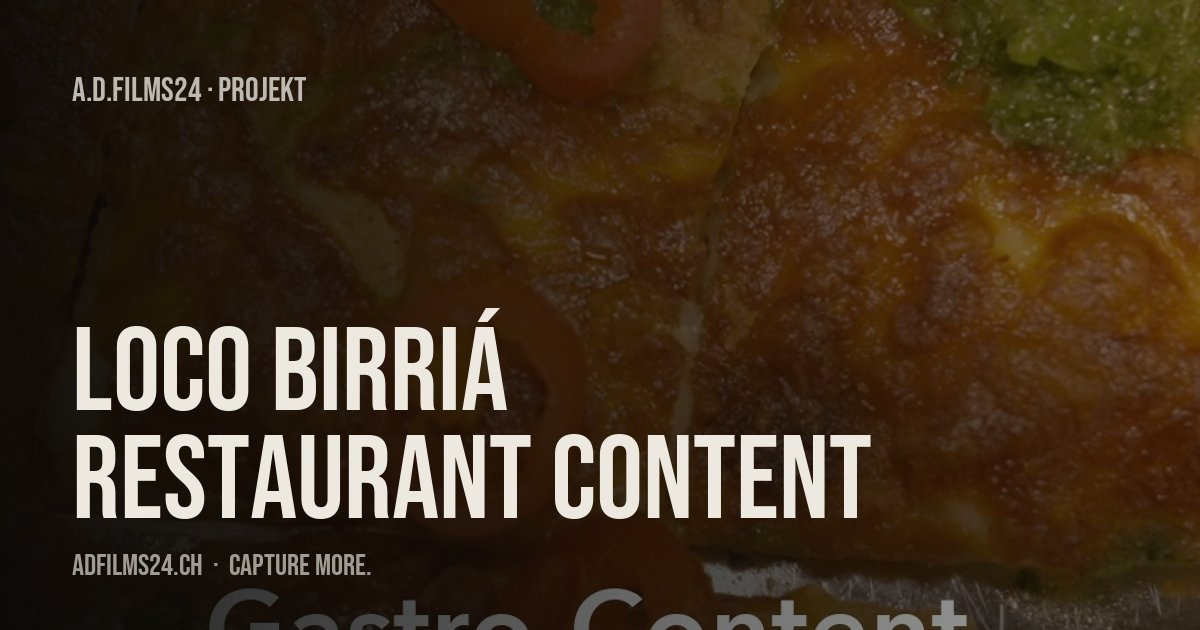
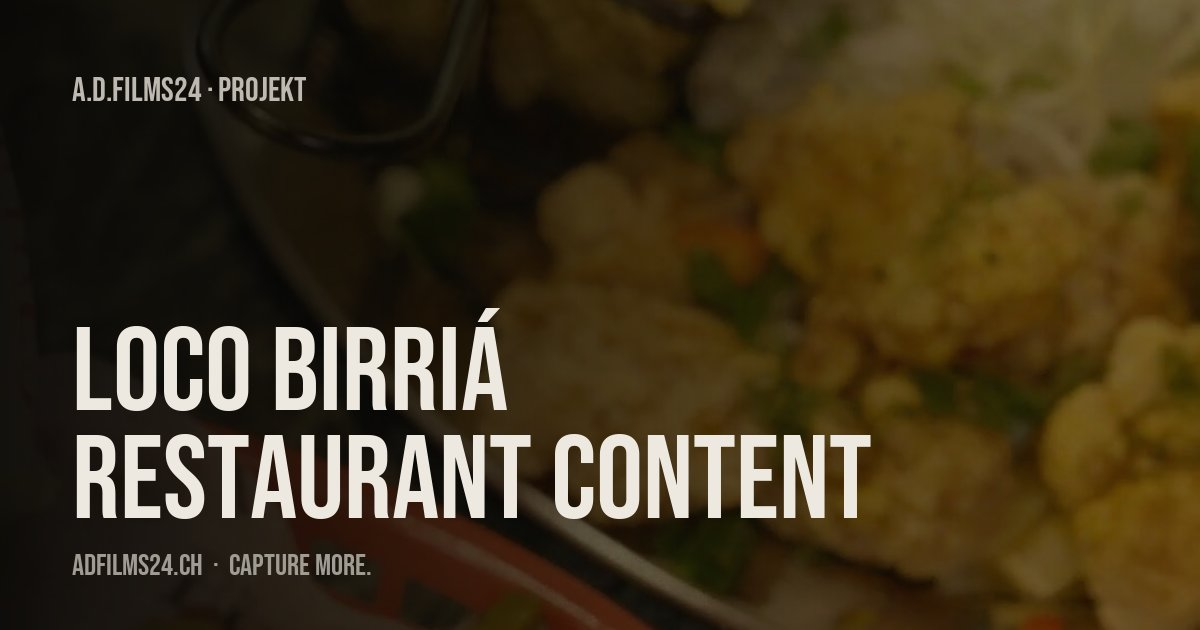
Use a clean food still as the LOCO BIRRIÁ poster

diff --git a/leistungen/restaurant-video-zuerich.html b/leistungen/restaurant-video-zuerich.html
@@ -47,7 +47,7 @@
       <div><h2 class="lp-h">Für wen</h2><ul class="lp-list"><li>Restaurants und Bars</li><li>Neueröffnungen</li><li>Caterer und Food-Brands</li></ul></div>
     </div>
     <p class="s-meta lp-label">Beispiel aus unserem Portfolio: <a href="/projekte/loco-birria.html">LOCO BIRRIÁ — RESTAURANT CONTENT</a></p>
-    <div class="pj-video"><video controls playsinline preload="metadata" poster="/assets/video/projects/loco-birria.webp?v=e307e70f"><source src="/assets/video/projects/loco-birria.mp4?v=e6290970" type="video/mp4"></video></div>
+    <div class="pj-video"><video controls playsinline preload="metadata" poster="/assets/video/projects/loco-birria.webp?v=ee245982"><source src="/assets/video/projects/loco-birria.mp4?v=e6290970" type="video/mp4"></video></div>
     <h2 class="lp-h">So läuft es ab</h2>
     <ol class="lp-steps"><li><span class="lp-step-n">01</span><strong>Gespräch</strong><span>Wir klären Ziel, Zielgruppe und wo das Video eingesetzt wird.</span></li><li><span class="lp-step-n">02</span><strong>Offerte & Konzept</strong><span>Klarer Preis und klarer Ablauf, bevor gedreht wird.</span></li><li><span class="lp-step-n">03</span><strong>Dreh</strong><span>Mit Cinema-Kamera, Licht und Ton — vor Ort bei euch.</span></li><li><span class="lp-step-n">04</span><strong>Schnitt & Abgabe</strong><span>Fertig in den Formaten, die ihr braucht.</span></li></ol>
     <p class="lp-promise">Bisher gab es keine einzige Revisionsanfrage. Weil wir vor dem Dreh klären, was das Video leisten soll.</p>

diff --git a/en/services/restaurant-video-zurich.html b/en/services/restaurant-video-zurich.html
@@ -47,7 +47,7 @@
       <div><h2 class="lp-h">Who it's for</h2><ul class="lp-list"><li>Restaurants and bars</li><li>New openings</li><li>Caterers and food brands</li></ul></div>
     </div>
     <p class="s-meta lp-label">Example from our portfolio: <a href="/en/projects/loco-birria.html">LOCO BIRRIÁ — RESTAURANT CONTENT</a></p>
-    <div class="pj-video"><video controls playsinline preload="metadata" poster="/assets/video/projects/loco-birria.webp?v=e307e70f"><source src="/assets/video/projects/loco-birria.mp4?v=e6290970" type="video/mp4"></video></div>
+    <div class="pj-video"><video controls playsinline preload="metadata" poster="/assets/video/projects/loco-birria.webp?v=ee245982"><source src="/assets/video/projects/loco-birria.mp4?v=e6290970" type="video/mp4"></video></div>
     <h2 class="lp-h">How it works</h2>
     <ol class="lp-steps"><li><span class="lp-step-n">01</span><strong>Call</strong><span>We clarify the goal, the audience and where the video will be used.</span></li><li><span class="lp-step-n">02</span><strong>Quote & concept</strong><span>A clear price and a clear process before we shoot.</span></li><li><span class="lp-step-n">03</span><strong>Shoot</strong><span>With cinema camera, lighting and sound — on site with you.</span></li><li><span class="lp-step-n">04</span><strong>Edit & delivery</strong><span>Finished in the formats you need.</span></li></ol>
     <p class="lp-promise">So far, not a single revision request. Because we settle what the video needs to achieve before the shoot.</p>

diff --git a/en/index.html b/en/index.html
@@ -227,7 +227,7 @@
         </div>
       </a>
       <a class="pf-cell featured" href="/en/projects/loco-birria.html" data-size="tall" data-cat="food" aria-label="LOCO BIRRIÁ — RESTAURANT CONTENT — Food & hospitality · 2026">
-        <div class="pf-cell-bg has-img" style="background-image:linear-gradient(rgba(6,6,6,.25),rgba(6,6,6,.35)),url('/assets/video/projects/loco-birria.webp?v=e307e70f')"></div>
+        <div class="pf-cell-bg has-img" style="background-image:linear-gradient(rgba(6,6,6,.25),rgba(6,6,6,.35)),url('/assets/video/projects/loco-birria.webp?v=ee245982')"></div>
         <div class="pf-play"><svg width="22" height="24" viewBox="0 0 16 18" fill="none"><path d="M2 2L14 9L2 16V2Z" fill="#EDE9E0"/></svg></div>
         <div class="pf-overlay">
           <div class="pf-tag">Food & hospitality · 2026</div>

diff --git a/projekte/loco-birria.html b/projekte/loco-birria.html
@@ -42,7 +42,7 @@
     
     <p class="s-meta">Gastro & Food</p>
     <h1 class="h-display pj-title">LOCO BIRRIÁ — RESTAURANT CONTENT</h1>
-    <div class="pj-video"><video controls playsinline preload="metadata" poster="/assets/video/projects/loco-birria.webp?v=e307e70f"><source src="/assets/video/projects/loco-birria.mp4?v=e6290970" type="video/mp4"></video></div>
+    <div class="pj-video"><video controls playsinline preload="metadata" poster="/assets/video/projects/loco-birria.webp?v=ee245982"><source src="/assets/video/projects/loco-birria.mp4?v=e6290970" type="video/mp4"></video></div>
     <div class="pj-body">
       <div>
         <p class="pj-desc">Video- und Social-Media-Content für das Restaurant LOCO BIRRIÁ in Zürich: Küche, Gerichte, Bar und Team, produziert für Instagram, TikTok und die Website.</p>

diff --git a/en/projects/loco-birria.html b/en/projects/loco-birria.html
@@ -42,7 +42,7 @@
     
     <p class="s-meta">Food & hospitality</p>
     <h1 class="h-display pj-title">LOCO BIRRIÁ — RESTAURANT CONTENT</h1>
-    <div class="pj-video"><video controls playsinline preload="metadata" poster="/assets/video/projects/loco-birria.webp?v=e307e70f"><source src="/assets/video/projects/loco-birria.mp4?v=e6290970" type="video/mp4"></video></div>
+    <div class="pj-video"><video controls playsinline preload="metadata" poster="/assets/video/projects/loco-birria.webp?v=ee245982"><source src="/assets/video/projects/loco-birria.mp4?v=e6290970" type="video/mp4"></video></div>
     <div class="pj-body">
       <div>
         <p class="pj-desc">Video and social media content for the restaurant LOCO BIRRIÁ in Zurich: kitchen, dishes, bar and team, produced for Instagram, TikTok and the website.</p>

diff --git a/index.html b/index.html
@@ -227,7 +227,7 @@
         </div>
       </a>
       <a class="pf-cell featured" href="/projekte/loco-birria.html" data-size="tall" data-cat="food" aria-label="LOCO BIRRIÁ — RESTAURANT CONTENT — Gastro & Food · 2026">
-        <div class="pf-cell-bg has-img" style="background-image:linear-gradient(rgba(6,6,6,.25),rgba(6,6,6,.35)),url('/assets/video/projects/loco-birria.webp?v=e307e70f')"></div>
+        <div class="pf-cell-bg has-img" style="background-image:linear-gradient(rgba(6,6,6,.25),rgba(6,6,6,.35)),url('/assets/video/projects/loco-birria.webp?v=ee245982')"></div>
         <div class="pf-play"><svg width="22" height="24" viewBox="0 0 16 18" fill="none"><path d="M2 2L14 9L2 16V2Z" fill="#EDE9E0"/></svg></div>
         <div class="pf-overlay">
           <div class="pf-tag">Gastro & Food · 2026</div>
